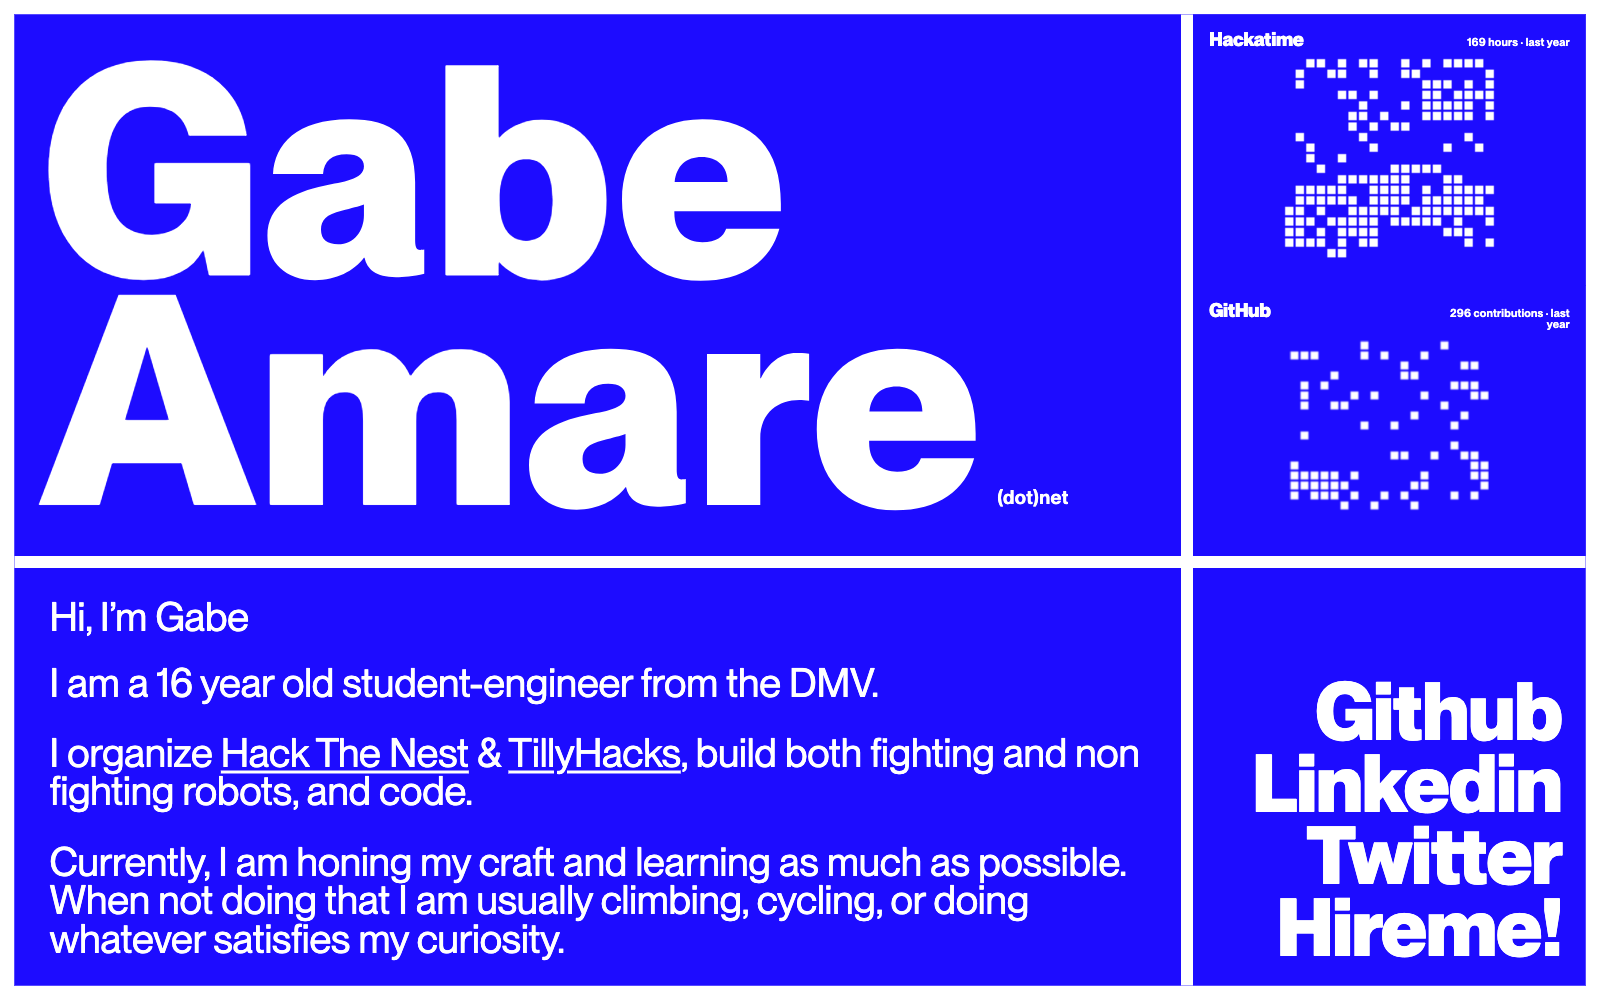
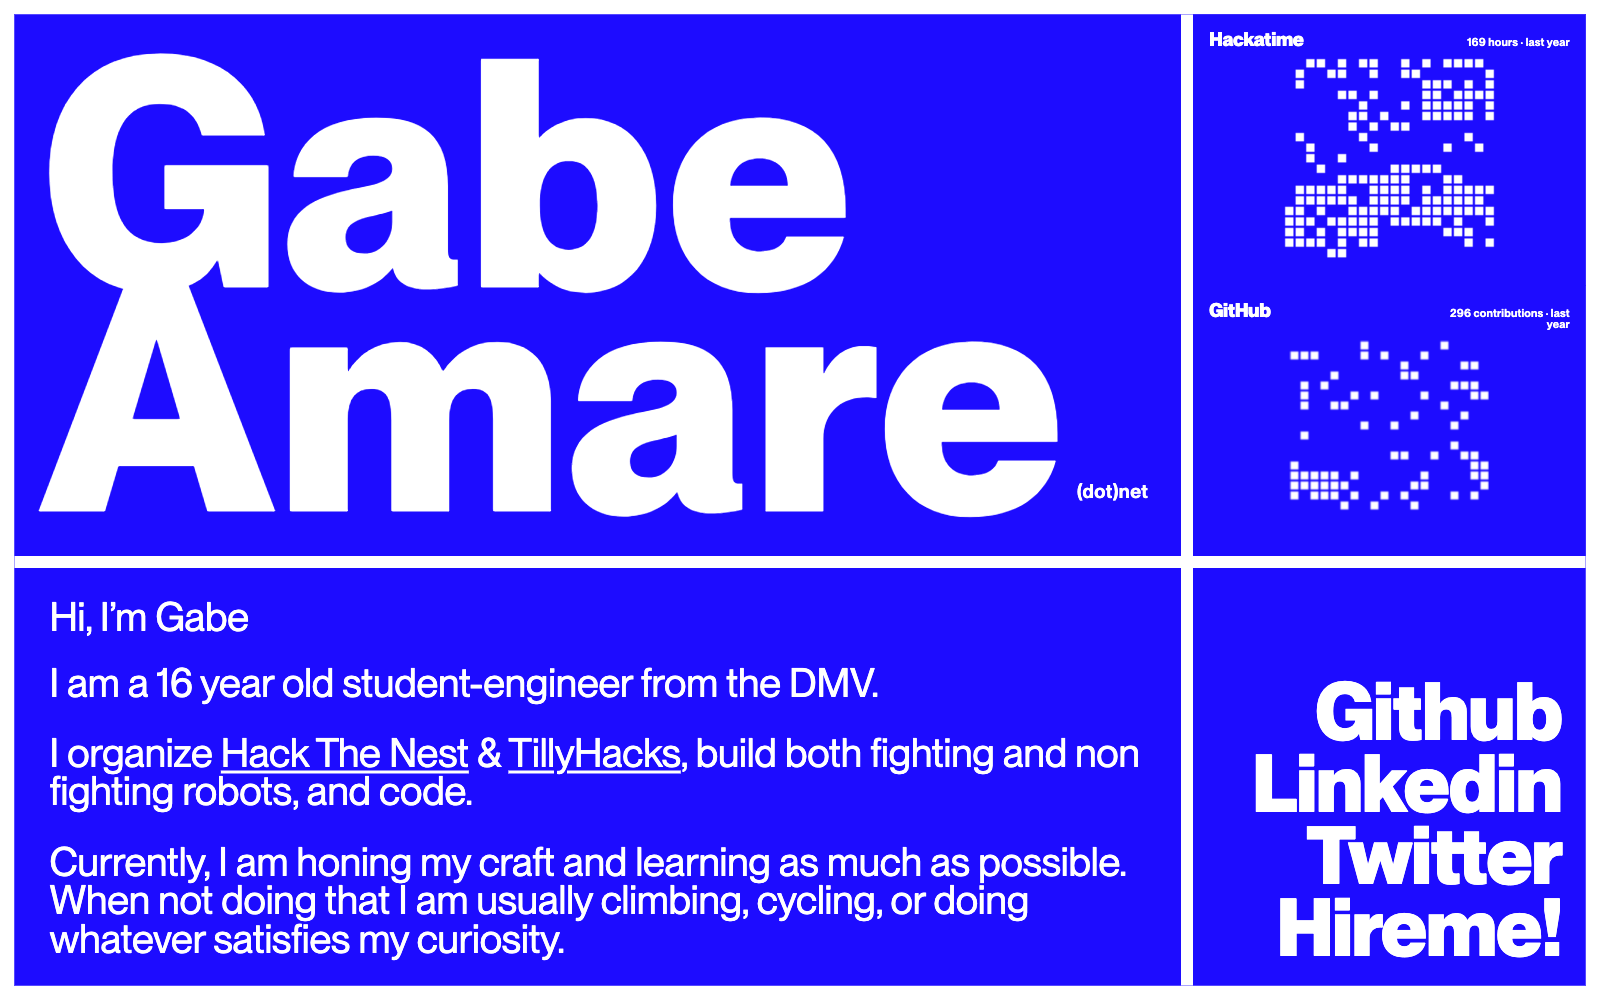
Make the wordmark more imposing

diff --git a/app/home.module.css b/app/home.module.css
@@ -47,10 +47,10 @@
   height: 100%;
   margin: 0;
   font-family: var(--font-neue);
-  font-size: clamp(4rem, min(28cqw, 60cqh), 19rem);
+  font-size: clamp(4rem, min(29cqw, 66cqh), 20rem);
   font-weight: 800;
   letter-spacing: 0.01em;
-  line-height: 0.78;
+  line-height: 0.7;
 }
 
 .nameLine {
@@ -68,7 +68,7 @@
 .domainLine {
   width: 100%;
   max-width: 100%;
-  gap: clamp(0.4rem, 0.8vw, 0.8rem);
+  gap: clamp(0.2rem, 0.6vw, 0.6rem);
 }
 
 .domain {
@@ -76,7 +76,7 @@
   align-self: flex-end;
   margin: 0 0 0.45em;
   font-family: var(--font-neue);
-  font-size: clamp(0.7rem, 2cqw, 1.2rem);
+  font-size: clamp(0.625rem, 2cqw, 1.2rem);
   font-weight: 600;
   letter-spacing: 0.025em;
   line-height: 1;
@@ -204,8 +204,8 @@
   }
 
   .name {
-    font-size: clamp(4rem, min(26cqw, 60cqh), 12rem);
-    line-height: 0.8;
+    font-size: clamp(4rem, min(27cqw, 66cqh), 12rem);
+    line-height: 0.72;
   }
 
   .about {
